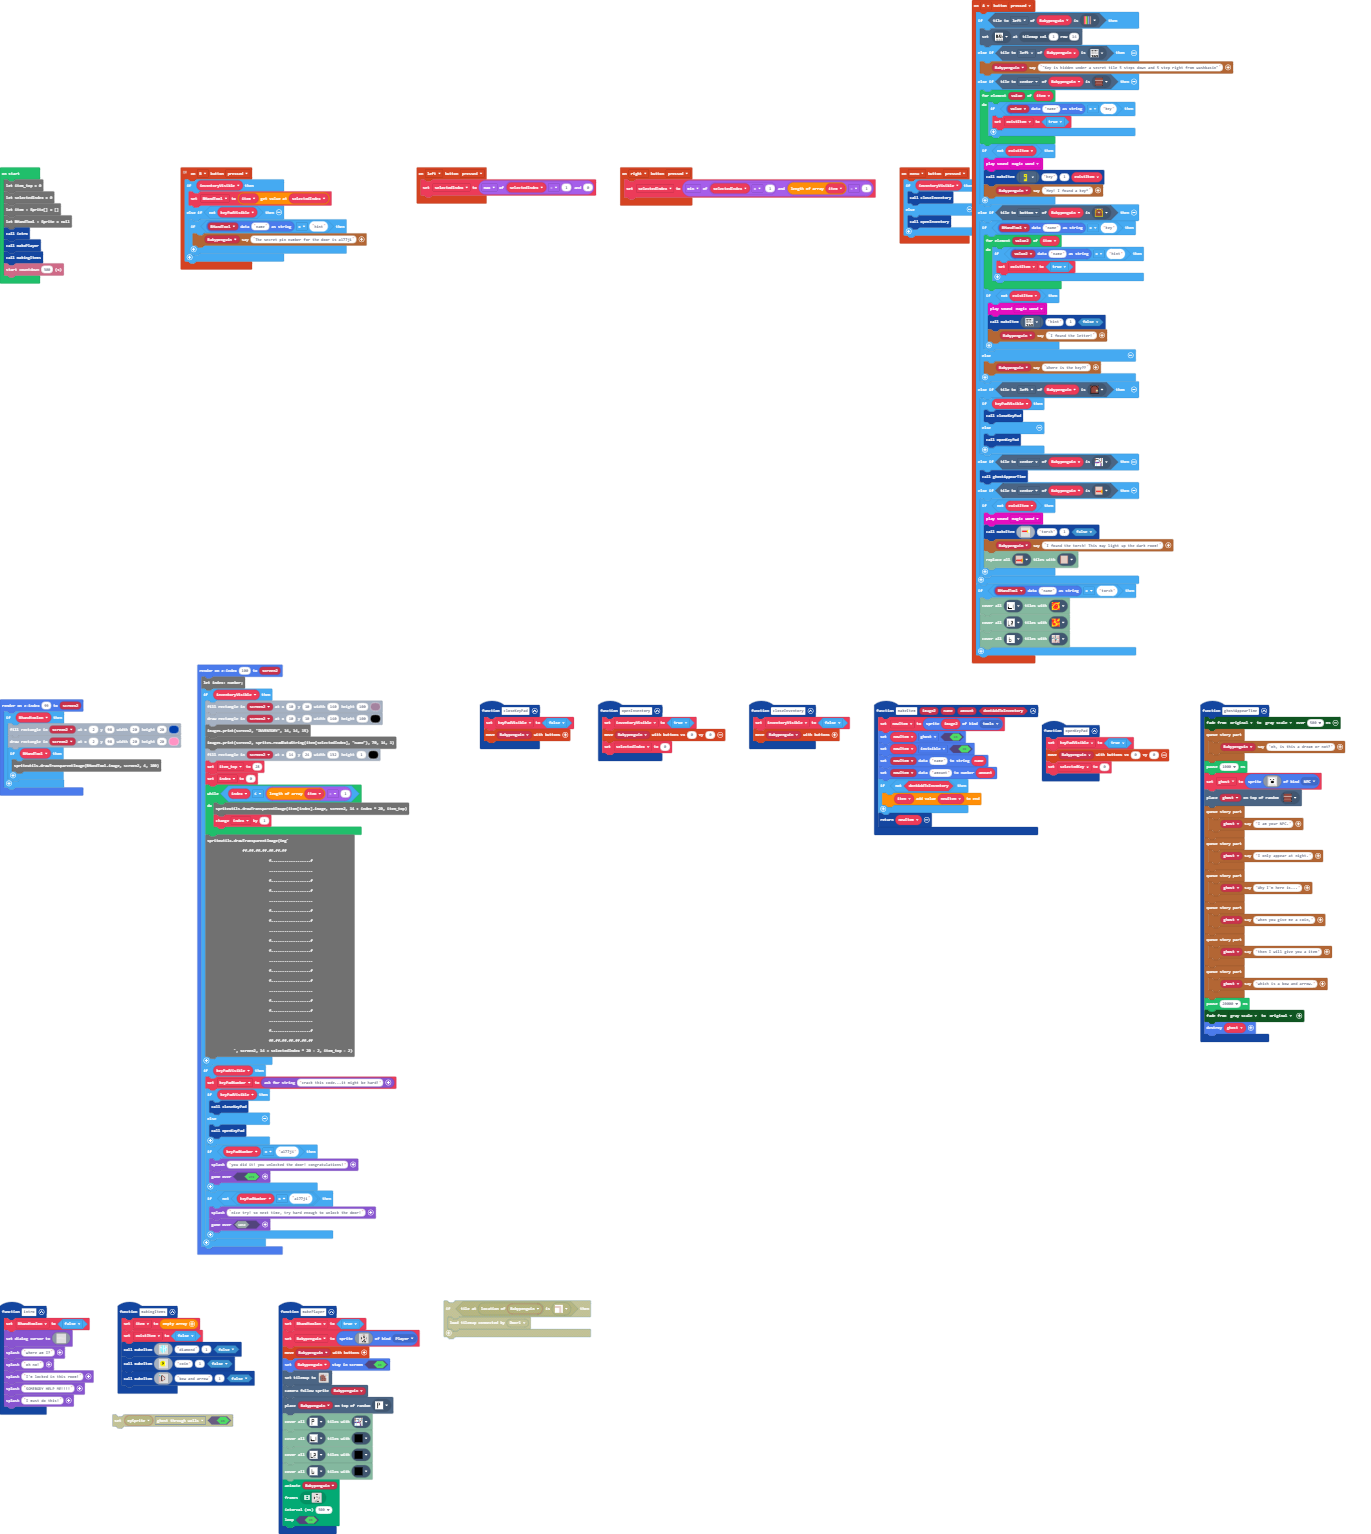
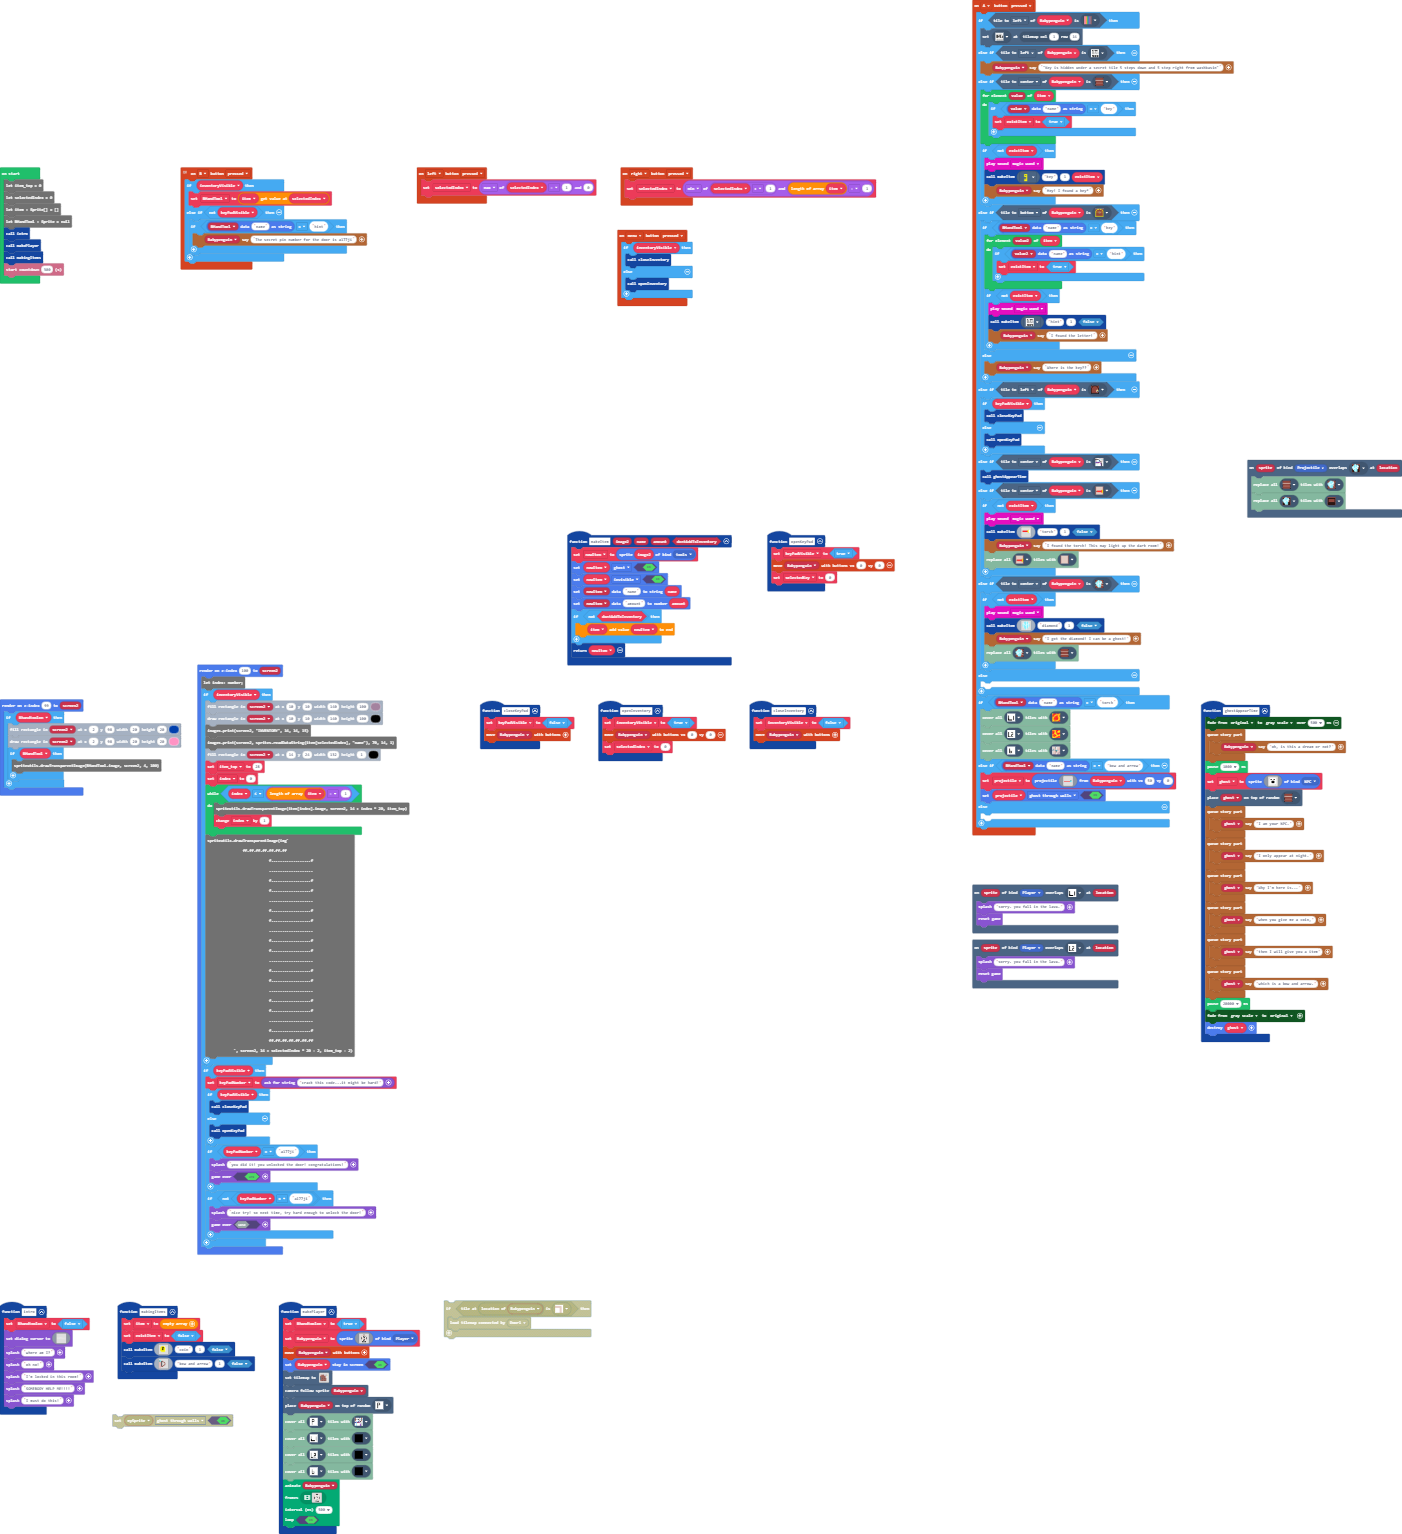
Update main.blocks, main.ts, tilemap.g.jres, tilemap.g.ts

diff --git a/tilemap.g.ts b/tilemap.g.ts
@@ -55,15 +55,11 @@ namespace myTiles {
     //% fixedInstance jres blockIdentity=images._tile
     export const tile26 = image.ofBuffer(hex``);
     //% fixedInstance jres blockIdentity=images._tile
-    export const tile33 = image.ofBuffer(hex``);
-    //% fixedInstance jres blockIdentity=images._tile
     export const tile34 = image.ofBuffer(hex``);
     //% fixedInstance jres blockIdentity=images._tile
     export const tile28 = image.ofBuffer(hex``);
     //% fixedInstance jres blockIdentity=images._tile
     export const tile27 = image.ofBuffer(hex``);
-    //% fixedInstance jres blockIdentity=images._tile
-    export const tile29 = image.ofBuffer(hex``);
     //% fixedInstance jres blockIdentity=images._tile
     export const tile32 = image.ofBuffer(hex``);
     //% fixedInstance jres blockIdentity=images._tile
@@ -104,6 +100,16 @@ namespace myTiles {
     export const tile50 = image.ofBuffer(hex``);
     //% fixedInstance jres blockIdentity=images._tile
     export const tile51 = image.ofBuffer(hex``);
+    //% fixedInstance jres blockIdentity=images._tile
+    export const tile53 = image.ofBuffer(hex``);
+    //% fixedInstance jres blockIdentity=images._tile
+    export const tile54 = image.ofBuffer(hex``);
+    //% fixedInstance jres blockIdentity=images._tile
+    export const tile29 = image.ofBuffer(hex``);
+    //% fixedInstance jres blockIdentity=images._tile
+    export const tile33 = image.ofBuffer(hex``);
+    //% fixedInstance jres blockIdentity=images._tile
+    export const tile55 = image.ofBuffer(hex``);
 
     helpers._registerFactory("tilemap", function(name: string) {
         switch(helpers.stringTrim(name)) {
@@ -209,7 +215,7 @@ namespace myTiles {
 . . . . . . . . . . . . . . . . 
 `, [myTiles.transparency16], TileScale.Sixteen);
             case "level1":
[2 lines of base64/hex data omitted]
 2.....22.......22...
 2.2............22...
 2.2............22..2
@@ -224,9 +230,9 @@ namespace myTiles {
 2.....2....2....2...
 222...2.22.2....2...
 22....2.2222....2...
-22....2....2....2...
-22....2....2....2...
-`, [myTiles.transparency16,myTiles.tile1,myTiles.tile4,myTiles.tile5,myTiles.tile2,myTiles.tile3,myTiles.tile6,myTiles.tile7,myTiles.tile8,myTiles.tile9,myTiles.tile10,myTiles.tile11,myTiles.tile12,myTiles.tile13,myTiles.tile14,myTiles.tile15,myTiles.tile16,myTiles.tile17,myTiles.tile18,myTiles.tile19,myTiles.tile20,myTiles.tile21,myTiles.tile22,myTiles.tile23,myTiles.tile24,myTiles.tile25,myTiles.tile26,myTiles.tile34,myTiles.tile28,myTiles.tile32,myTiles.tile35,myTiles.tile36,myTiles.tile42,myTiles.tile43,myTiles.tile45,myTiles.tile46,myTiles.tile50,myTiles.tile51], TileScale.Sixteen);
+22....2....2..222...
+22....2....2..222...
+`, [myTiles.transparency16,myTiles.tile1,myTiles.tile4,myTiles.tile5,myTiles.tile2,myTiles.tile3,myTiles.tile6,myTiles.tile7,myTiles.tile8,myTiles.tile9,myTiles.tile10,myTiles.tile11,myTiles.tile12,myTiles.tile13,myTiles.tile14,myTiles.tile15,myTiles.tile16,myTiles.tile17,myTiles.tile18,myTiles.tile19,myTiles.tile20,myTiles.tile21,myTiles.tile22,myTiles.tile23,myTiles.tile24,myTiles.tile25,myTiles.tile26,myTiles.tile34,myTiles.tile28,myTiles.tile32,myTiles.tile35,myTiles.tile36,myTiles.tile42,myTiles.tile43,myTiles.tile45,myTiles.tile46,myTiles.tile50,myTiles.tile51,myTiles.tile54,myTiles.tile29,myTiles.tile33], TileScale.Sixteen);
         }
         return null;
     })
@@ -286,16 +292,12 @@ namespace myTiles {
             case "tile25":return tile25;
             case "myTile24":
             case "tile26":return tile26;
-            case "myTile31":
-            case "tile33":return tile33;
             case "myTile32":
             case "tile34":return tile34;
             case "myTile26":
             case "tile28":return tile28;
             case "myTile25":
             case "tile27":return tile27;
-            case "myTile27":
-            case "tile29":return tile29;
             case "myTile30":
             case "tile32":return tile32;
             case "myTile33":
@@ -336,6 +338,16 @@ namespace myTiles {
             case "tile50":return tile50;
             case "myTile49":
             case "tile51":return tile51;
+            case "myTile51":
+            case "tile53":return tile53;
+            case "myTile52":
+            case "tile54":return tile54;
+            case "myTile27":
+            case "tile29":return tile29;
+            case "myTile31":
+            case "tile33":return tile33;
+            case "myTile53":
+            case "tile55":return tile55;
         }
         return null;
     })

diff --git a/main.ts b/main.ts
@@ -100,11 +100,59 @@ controller.A.onEvent(ControllerButtonEvent.Pressed, function () {
             story.spriteSayText(Babypenguin, "I found the torch! This may light up the dark room!")
             tiles.replaceAllTiles(assets.tile`myTile48`, assets.tile`myTile1`)
         }
+    } else if (Babypenguin.tileKindAt(TileDirection.Center, assets.tile`myTile53`)) {
+        if (!(existItem)) {
+            music.magicWand.play()
+            makeItem(img`
+                . . . . . 9 9 9 1 9 9 . . . . . 
+                . . . . 9 9 9 9 1 9 9 9 . . . . 
+                . . . 1 9 9 9 9 1 9 9 9 1 . . . 
+                . . 9 1 9 9 9 9 1 9 9 9 1 9 . . 
+                . 1 1 1 1 9 9 9 1 9 9 9 1 1 1 . 
+                . 9 9 1 1 9 9 9 1 9 9 1 1 9 9 . 
+                . 9 9 1 9 1 9 9 1 1 1 9 1 9 9 . 
+                . 9 9 1 9 9 1 1 1 9 9 9 1 9 9 . 
+                . 9 9 1 9 9 9 9 1 9 9 9 1 9 9 . 
+                . 9 9 1 9 9 9 9 1 9 9 9 1 9 9 . 
+                . . 9 1 9 9 9 9 1 9 9 9 1 9 . . 
+                . . . 1 9 9 9 9 1 9 9 9 1 . . . 
+                . . . . 9 9 9 9 1 9 9 9 . . . . 
+                . . . . . 9 9 9 1 9 9 . . . . . 
+                . . . . . . 9 9 1 9 . . . . . . 
+                . . . . . . . 9 1 . . . . . . . 
+                `, "diamond", 1, false)
+            story.spriteSayText(Babypenguin, "I got the diamond! I can be a ghost!")
+            tiles.replaceAllTiles(assets.tile`myTile53`, assets.tile`myTile`)
+        }
+    } else {
+    	
     }
     if (sprites.readDataString(BHandTool, "name") == "torch") {
         tiles.coverAllTiles(assets.tile`myTile41`, assets.tile`myTile45`)
         tiles.coverAllTiles(assets.tile`myTile43`, assets.tile`myTile46`)
         tiles.coverAllTiles(assets.tile`myTile44`, assets.tile`myTile47`)
+    } else if (sprites.readDataString(BHandTool, "name") == "bow and arrow") {
+        projectile = sprites.createProjectileFromSprite(img`
+            . . . . . . . . . . . . . . . . 
+            . . . . . . . . . . . . . . . . 
+            . . . . . . . . . . . . . . . . 
+            . . . . . . . . . . . . . . . . 
+            . . . . . . . . . . . . . . . . 
+            . . . . . . . . . . . . . . . . 
+            . . . . . . . . . . . . . . . . 
+            . . . . . . . . . . . . 6 6 6 . 
+            2 2 2 2 2 2 2 2 2 2 2 2 6 9 9 9 
+            . . . . . . . . . . . . 9 9 9 . 
+            . . . . . . . . . . . . . . . . 
+            . . . . . . . . . . . . . . . . 
+            . . . . . . . . . . . . . . . . 
+            . . . . . . . . . . . . . . . . 
+            . . . . . . . . . . . . . . . . 
+            . . . . . . . . . . . . . . . . 
+            `, Babypenguin, 50, 0)
+        projectile.setFlag(SpriteFlag.GhostThroughWalls, true)
+    } else {
+    	
     }
 })
 function makeItem (image2: Image, name: string, amount: number, dontAddToInventory: boolean) {
@@ -121,24 +169,6 @@ function makeItem (image2: Image, name: string, amount: number, dontAddToInvento
 function makingItems () {
     item = []
     existItem = false
-    makeItem(img`
-        . . . . . 9 9 9 1 9 9 . . . . . 
-        . . . . 9 9 9 9 1 9 9 9 . . . . 
-        . . . 1 9 9 9 9 1 9 9 9 1 . . . 
-        . . 9 1 9 9 9 9 1 9 9 9 1 9 . . 
-        . 1 1 1 1 9 9 9 1 9 9 9 1 1 1 . 
-        . 9 9 1 1 9 9 9 1 9 9 1 1 9 9 . 
-        . 9 9 1 9 1 9 9 1 1 1 9 1 9 9 . 
-        . 9 9 1 9 9 1 1 1 9 9 9 1 9 9 . 
-        . 9 9 1 9 9 9 9 1 9 9 9 1 9 9 . 
-        . 9 9 1 9 9 9 9 1 9 9 9 1 9 9 . 
-        . . 9 1 9 9 9 9 1 9 9 9 1 9 . . 
-        . . . 1 9 9 9 9 1 9 9 9 1 . . . 
-        . . . . 9 9 9 9 1 9 9 9 . . . . 
-        . . . . . 9 9 9 1 9 9 . . . . . 
-        . . . . . . 9 9 1 9 . . . . . . 
-        . . . . . . . 9 1 . . . . . . . 
-        `, "diamond", 1, false)
     makeItem(img`
         . . . . . . . . . . . . . . . . 
         . . . . . . . . . . . . . . . . 
@@ -274,6 +304,14 @@ function makePlayer () {
 controller.right.onEvent(ControllerButtonEvent.Pressed, function () {
     selectedIndex = Math.min(selectedIndex + 1, item.length - 1)
 })
+scene.onOverlapTile(SpriteKind.Projectile, assets.tile`myTile27`, function (sprite, location) {
+    tiles.replaceAllTiles(assets.tile`myTile31`, assets.tile`myTile53`)
+    tiles.replaceAllTiles(assets.tile`myTile27`, assets.tile`myTile52`)
+})
+scene.onOverlapTile(SpriteKind.Player, assets.tile`myTile43`, function (sprite, location) {
+    game.splash("sorry. you fall in the lava.")
+    game.reset()
+})
 controller.menu.onEvent(ControllerButtonEvent.Pressed, function () {
     if (inventoryVisible) {
         closeInventory()
@@ -392,10 +430,15 @@ function openKeyPad () {
     controller.moveSprite(Babypenguin, 0, 0)
     selectedKey = 0
 }
+scene.onOverlapTile(SpriteKind.Player, assets.tile`myTile41`, function (sprite, location) {
+    game.splash("sorry. you fall in the lava.")
+    game.reset()
+})
 let selectedKey = 0
 let ghost: Sprite = null
 let keyPadNumber = ""
 let newItem: Sprite = null
+let projectile: Sprite = null
 let existItem = false
 let Bhandtoolon = false
 let Babypenguin: Sprite = null
